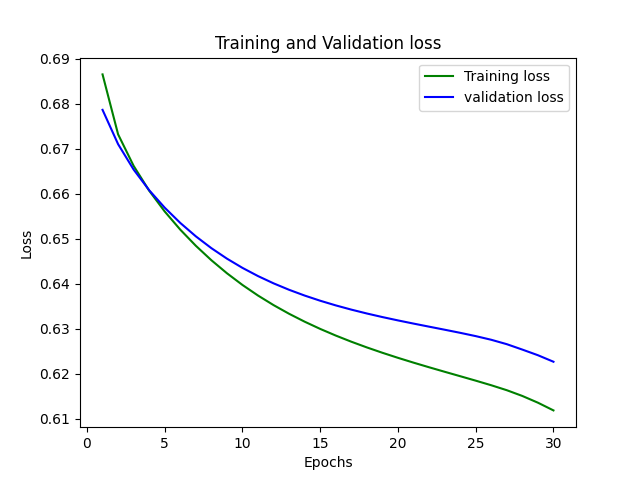
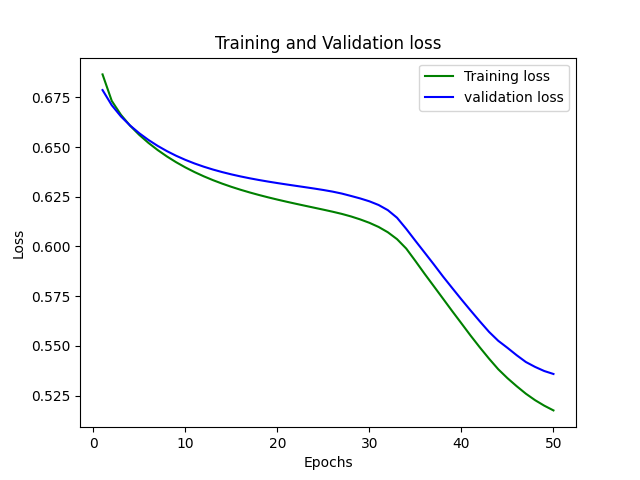
GRU outputs corrected

diff --git a/experiments/gru/outputs/plot.py b/experiments/gru/outputs/plot.py
@@ -3,12 +3,13 @@ import matplotlib.pyplot as plt
 loss_train, loss_val = [], []
 EPOCHS = 0
 
-with open(f'out.txt', 'r') as f:
-    for line in f:
-        sp = line.split(' ')
-        loss_train.append(float(sp[5]))
-        loss_val.append(float(sp[9]))
-        EPOCHS += 1
+for i in range(1, 3):
+    with open(f'out{i}.txt', 'r') as f:
+        for line in f:
+            sp = line.split(' ')
+            loss_train.append(float(sp[5]))
+            loss_val.append(float(sp[9]))
+            EPOCHS += 1
 
 epochs = range(1, EPOCHS + 1)
 plt.plot(epochs, loss_train, 'g', label='Training loss')
